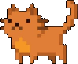
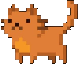
Refine pet transparency (higher threshold)

diff --git a/remove_bg.py b/remove_bg.py
@@ -42,7 +42,7 @@ for f in files:
         new_data = []
         for item in datas:
             # If pixel is black (allowing slight variance), make it transparent
-            if item[0] < 10 and item[1] < 10 and item[2] < 10:
+            if item[0] < 30 and item[1] < 30 and item[2] < 30:
                 new_data.append((0, 0, 0, 0))
             else:
                 new_data.append(item)
